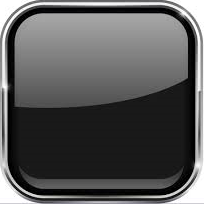
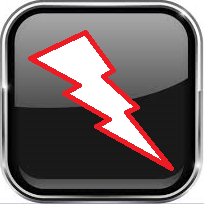
type refactoring; image resources update; added user input handling

Changed region(s): [[0.1176, 0.1471, 0.8529, 0.8529]]

diff --git a/CMazeController.cpp b/CMazeController.cpp
@@ -1,10 +1,14 @@
 #include <QWidget>
+#include <QDebug>
+#include <QKeyEvent>
 #include <iostream>
 #include "CMazeController.h"
 
 CMazeController::CMazeController()
    : mMazeModel(nullptr)
+   , mInitialized(false)
 {
+    mKeyEventHandler = std::bind(&CMazeController::processKeyinput, this, std::placeholders::_1);
 }
 
 CMazeController& CMazeController::getMazeController()
@@ -13,7 +17,7 @@ CMazeController& CMazeController::getMazeController()
    return instance;
 }
 
-void CMazeController::createMaze(const int width, const int height)
+void CMazeController::createMaze(const uint16_t  width, const uint16_t  height)
 {
    mMazeModel = std::make_shared<CMazeModel>(width, height);
    fillMaze();
@@ -47,16 +51,34 @@ const Vector2D& CMazeController::getEndPoint() const
 
 void CMazeController::fillMaze()
 {
-   for (int y = 0; y < mMazeModel->getHeight(); y++)
+   for (uint8_t y = 0; y < mMazeModel->getHeight(); y++)
    {
-      for (int x = 0; x < mMazeModel->getWidth(); x++)
+      for (uint8_t x = 0; x < mMazeModel->getWidth(); x++)
       {
          mMazeModel->setCellContent(Vector2D(x,y), PATH_SYMBOL);
       }
    }
 }
 
+void CMazeController::processKeyinput(QKeyEvent* event)
+{
+    switch (event->key())
+    {
+        case Qt::Key_Left:
+            break;
+        case Qt::Key_Right:
+            break;
+        default:
+            break;
+    }
+}
+
 void CMazeController::draw(QWidget* widget)
 {
    CMazeVisualizer::getVizualizer().draw(widget);
+}
+
+std::function<void(QKeyEvent*)> CMazeController::getKeyEventHandler() const
+{
+    return mKeyEventHandler;
 }

diff --git a/CMazeModel.cpp b/CMazeModel.cpp
@@ -1,7 +1,7 @@
 #include <iostream>
 #include "CMazeModel.h"
 
-CMazeModel::CMazeModel(const int _width, const int _height)
+CMazeModel::CMazeModel(const uint8_t _width, const uint8_t _height)
    : mWidth(_width)
    , mHeight(_height)
    , mStartPoint()
@@ -11,9 +11,9 @@ CMazeModel::CMazeModel(const int _width, const int _height)
 {
    mCellArray.reserve(mWidth*mHeight);
 
-   for (int y = 0; y < mHeight; y++)
+   for (uint8_t y = 0; y < mHeight; y++)
    {
-      for (int x = 0; x < mWidth; x++)
+      for (uint8_t x = 0; x < mWidth; x++)
       {
          mCellArray.push_back(Cell('-', Vector2D(x, y)));
       }
@@ -48,7 +48,7 @@ Cell* CMazeModel::getCell(const Vector2D& point)
 void CMazeModel::setStartPoint(const Vector2D& point)
 {
    mStartPoint = point;
-   const int index = getIndex(mStartPoint);
+   const uint16_t index = getIndex(mStartPoint);
 
    if (mCellArray.size() > index)
    {
@@ -67,7 +67,7 @@ void CMazeModel::setStartPoint(const Vector2D& point)
 void CMazeModel::setEndPoint(const Vector2D& point)
 {
    mEndPoint = point;
-   const int index = getIndex(mEndPoint);
+   const uint16_t index = getIndex(mEndPoint);
 
    if (mCellArray.size() > index)
    {

diff --git a/CMazeVisualizer.cpp b/CMazeVisualizer.cpp
@@ -62,7 +62,7 @@ void CMazeVisualizer::prepareWidgets(const int width, const int height)
           QLabel* pixmap = new QLabel;
           pixmap->setGeometry(QRect(QPoint(x*CELLSIZE + x*MARGIN, y*CELLSIZE + y*MARGIN), QSize(CELLSIZE,CELLSIZE)));
 
-          pixmap->setPixmap(std::get<1>(mTextures[int(Texture::DEFAULT)]));
+          pixmap->setPixmap(std::get<1>(mTextures[static_cast<int>(Texture::DEFAULT)]));
           mLabelArray.push_back(pixmap);
        }
     }
@@ -77,14 +77,14 @@ void CMazeVisualizer::draw(QWidget* widget)
 
     widget->show();
 
-   /*CMazeModel* model = CMazeController::getMazeController().getMazeModel().get();
+   CMazeModel* model = CMazeController::getMazeController().getMazeModel().get();
 
-   for (int y = 0; y < model->getHeight(); y++)
+   for (uint8_t y = 0; y < model->getHeight(); y++)
    {
-      for (int x = 0; x < model->getWidth(); x++)
+      for (uint8_t x = 0; x < model->getWidth(); x++)
       {
          std::cout << model->getCellContent(Vector2D(x,y));
       }
       std::cout << std::endl;
-   }*/
+   }
 }

diff --git a/CMazeController.h b/CMazeController.h
@@ -1,6 +1,6 @@
 #pragma once
-
 #include <memory>
+#include <functional>
 #include "Vector2D.h"
 #include "CMazeModel.h"
 #include "CMazeVisualizer.h"
@@ -15,7 +15,7 @@ public:
 
    static CMazeController& getMazeController();
 
-   void createMaze(const int width, const int height);
+   void createMaze(const uint16_t  width, const uint16_t  height);
    std::shared_ptr<CMazeModel> getMazeModel();
 
    void setStartPoint(const Vector2D& point);
@@ -24,14 +24,17 @@ public:
    const Vector2D& getEndPoint() const;
 
    void draw(QWidget* widget);
+   std::function<void(QKeyEvent*)> getKeyEventHandler() const;
 
 private:
    CMazeController();
    ~CMazeController() = default;
 
    void fillMaze();
-
+   void processKeyinput(QKeyEvent* event);
 
 private:
    std::shared_ptr<CMazeModel> mMazeModel;
+   bool mInitialized;
+   std::function<void(QKeyEvent*)> mKeyEventHandler;
 };

diff --git a/CMazeModel.h b/CMazeModel.h
@@ -43,7 +43,7 @@ inline bool operator != (Cell& left, Cell& right)
 class CMazeModel
 {
 public:
-   CMazeModel(const int _width, const int _height);
+   CMazeModel(const uint8_t _width, const uint8_t _height);
 
    int getWidth() const;
    int getHeight() const;
@@ -59,11 +59,11 @@ public:
    Cell* getCell(const Vector2D& point);
 
 private:
-   inline int getIndex(const Vector2D& point) const;
+   inline uint16_t getIndex(const Vector2D& point) const;
 
 private:
-   int mWidth;
-   int mHeight;
+   uint8_t mWidth;
+   uint8_t mHeight;
    std::vector<Cell> mCellArray;
    Vector2D mStartPoint;
    Vector2D mEndPoint;
@@ -72,7 +72,7 @@ private:
    bool mEndPointIsSet;
 };
 
-int CMazeModel::getIndex(const Vector2D& point) const
+uint16_t CMazeModel::getIndex(const Vector2D& point) const
 {
    return point.x + point.y * mWidth;
 }

diff --git a/Vector2D.h b/Vector2D.h
@@ -5,7 +5,7 @@ class Vector2D
 {
 public:
    Vector2D() : x(0), y(0) {}
-   Vector2D(const int vx, const int vy) : x(vx), y(vy) {}
+   Vector2D(const int16_t vx, const int16_t vy) : x(vx), y(vy) {}
    Vector2D& operator+=(const Vector2D& v) { x += v.x; y += v.y; return *this; }
    Vector2D& operator-=(const Vector2D& v) { x -= v.x; y -= v.y; return *this; }
    Vector2D& operator*=(const Vector2D& v) { x *= v.x; y *= v.y; return *this; }
@@ -13,8 +13,8 @@ public:
    friend bool operator==(const Vector2D& left, const Vector2D& right);
 
 public:
-   int x;
-   int y;
+   int16_t x;
+   int16_t y;
 };
 
 inline std::ostream &operator<<(std::ostream &os, Vector2D const &m) {

diff --git a/MainWindow.h b/MainWindow.h
@@ -2,6 +2,7 @@
 #define MAINWINDOW_H
 
 #include <QMainWindow>
+#include <functional>
 
 namespace Ui {
 class MainWindow;
@@ -15,8 +16,14 @@ public:
     explicit MainWindow(QWidget *parent = 0);
     ~MainWindow();
 
+    void setKeyEventCallback(const std::function<void(QKeyEvent*)>& function);
+
+protected:
+    virtual void keyPressEvent(QKeyEvent* event);
+
 private:
     Ui::MainWindow *ui;
+    std::function<void(QKeyEvent*)> mKeyInputCallback;
 };
 
 #endif // MAINWINDOW_H

diff --git a/mainwindow.cpp b/mainwindow.cpp
@@ -1,6 +1,5 @@
 #include <QGraphicsScene>
-#include <QLabel>
-#include <QDebug>
+#include <QKeyEvent>
 #include "MainWindow.h"
 #include "ui_mainwindow.h"
 
@@ -14,4 +13,14 @@ MainWindow::MainWindow(QWidget *parent) :
 MainWindow::~MainWindow()
 {
     delete ui;
+}
+
+void MainWindow::setKeyEventCallback(const std::function<void(QKeyEvent*)>& function)
+{
+    mKeyInputCallback = function;
+}
+
+void MainWindow::keyPressEvent(QKeyEvent* event)
+{
+    mKeyInputCallback(event);
 }

diff --git a/main.cpp b/main.cpp
@@ -4,12 +4,16 @@
 #include "Vector2D.h"
 #include <QApplication>
 
+
+
 int main(int argc, char *argv[])
 {
     QApplication a(argc, argv);
     MainWindow w;
-
     CMazeController& maze = CMazeController::getMazeController();
+
+    w.setKeyEventCallback(maze.getKeyEventHandler());
+
     maze.createMaze(5, 5);
     maze.draw(&w);
 
